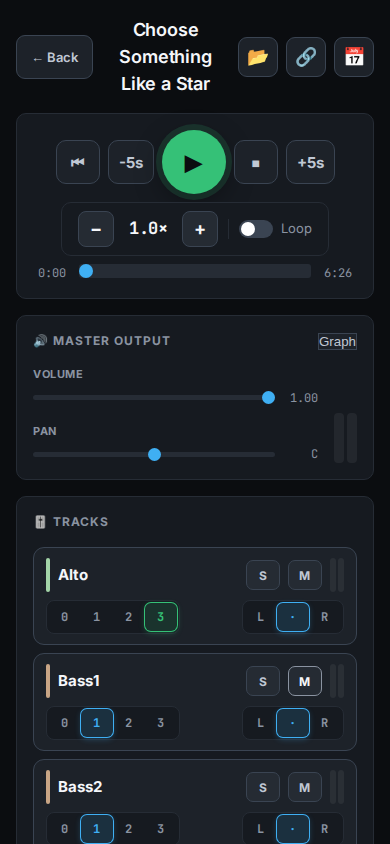
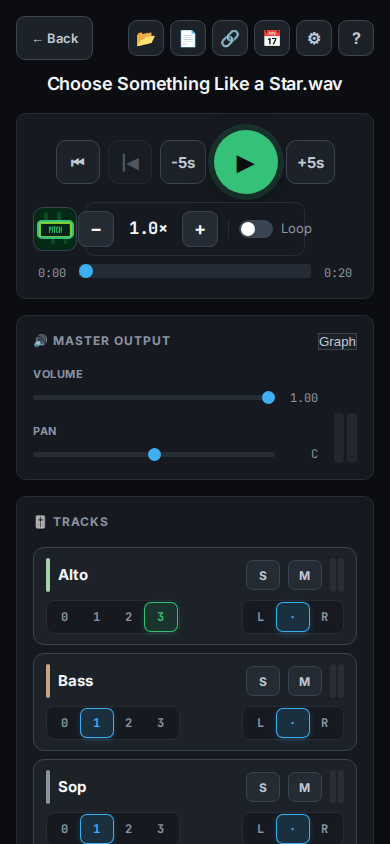
Publish PracticeMix TEST v1.8.8.7

diff --git a/pub/pmix-sit/help.html b/pub/pmix-sit/help.html
@@ -57,6 +57,14 @@
     figure { margin-top: 12px; text-align: center; }
     img { display: block; width: 240px; max-width: 100%; height: auto; margin: 0 auto; border: 1px solid var(--border); border-radius: var(--radius); }
     figcaption { font-size: 12px; color: var(--text-3); margin-top: 6px; }
+    .inline-icon { display: inline-block; vertical-align: middle; width: 28px; height: 28px; margin: 0 2px; border: 0; border-radius: 6px; }
+    .fold { margin-top: 14px; border: 1px solid var(--border); border-radius: var(--radius); background: var(--surface-2); }
+    .fold summary { min-height: 44px; padding: 10px 14px; font-size: 14px; font-weight: 600; color: var(--text-2); cursor: pointer; display: flex; align-items: center; border-radius: var(--radius); }
+    .fold summary:focus-visible { outline: 2px solid var(--blue); outline-offset: 2px; }
+    .fold .edit-body { padding: 0 14px 14px; font-size: 15px; }
+    .fold .edit-body p + ul { margin-top: 6px; }
+    .fold .edit-body ul { margin-left: 20px; }
+    .fold .edit-body a { color: var(--blue); }
     .tips { margin-top: 20px; }
     .tips h2 { font-size: 16px; color: var(--text); margin-bottom: 6px; }
     .tips ul { margin-left: 20px; font-size: 15px; }
@@ -137,30 +145,51 @@
     </div>
   </section>
 
-  <section class="step" data-testid="help-section-score">
-    <h2><span class="num">4</span>Follow the score</h2>
+  <section class="step" data-testid="help-section-pitchpipe">
+    <h2><span class="num">4</span>Pitch Pipe</h2>
     <div class="text">
-      <p>If the song has a score that moves with the music, the <strong>music-note</strong> button appears on the mixer page (on the folder page, the PDF button opens the Drive viewer instead). Tap it and the score opens over the playing mix. Press Play and the score follows the music.</p>
+      <p>Need your starting note? Tap the <strong>Pitch Pipe</strong> button, a green tile marked PITCH <img class="inline-icon" src="icons/opening-note.svg" width="28" height="28" alt="" draggable="false">. It sits at the far left of the row with <strong>Open New</strong> and <strong>Play Selected</strong> on the song page, and at the far left of the speed row on the mixer.</p>
+      <ul>
+        <li>It opens on your part, or on the last part you used, or on Alto the first time. Change part with the <strong>S A T B</strong> buttons.</li>
+        <li>Tap a note to hear it. Hold it to keep it sounding. Use the flat, natural or sharp button first for a note in between.</li>
+        <li>It plays over the mix without stopping it. Close the sheet when you are done.</li>
+      </ul>
+    </div>
+  </section>
+
+  <section class="step" data-testid="help-section-score">
+    <h2><span class="num">5</span>Follow the score</h2>
+    <div class="text" data-testid="help-score-play">
+      <p>If the song has a score that moves with the music, a <strong>score button</strong> appears on the mixer page: a navy disc with a cream rim showing a page of music <img class="inline-icon" src="icons/score-32.webp" srcset="icons/score-32.webp 1x, icons/score-64.webp 2x, icons/score-96.webp 3x" width="32" height="32" alt="" draggable="false">. (On the song page, the PDF button opens the Drive viewer instead.) Tap it and the score opens over the playing mix. Press Play and the score follows the music.</p>
       <ul>
         <li><strong>Follow:</strong> the page moves with the music and the line being sung sits near the top.</li>
         <li><strong>Start from a numbered mark:</strong> tap it and the music starts exactly there.</li>
         <li><strong>Prev / Next</strong> step to the previous or next mark.</li>
-        <li><strong>Look around:</strong> drag the score up or down while it plays to move the line you are singing higher or lower; Follow keeps going. In the Ribbon, dragging up or down moves the view up and down within the line&#39;s box, so you can look at another part of a tall line; it stops at the top and bottom of the box.</li>
-        <li><strong>Ribbon:</strong> instead of whole pages, the score scrolls sideways one line at a time. Switch it on or off in Settings. Pause keeps the Ribbon: drag or scroll it sideways and the time follows; Play carries on from there.</li>
+        <li><strong>Look around:</strong> drag the score while it plays and the view stays where you put it. Tap <strong>Follow</strong> to return to the music. In the Ribbon, dragging up or down looks at another part of a tall line.</li>
+        <li><strong>Ribbon:</strong> instead of whole pages, the score scrolls sideways one line at a time. Switch it on or off in Settings. Pause keeps the Ribbon: drag or scroll it sideways and the time follows; Play carries on from there. A seek or Prev / Next after a drag keeps your view too, until you tap Follow.</li>
         <li><strong>The green bar</strong> shows where you are in the line.</li>
       </ul>
       <p style="margin-top:8px">The <strong>gear</strong> button opens <strong>Settings</strong>:</p>
       <ul>
-        <li><strong>Mode:</strong> Play (listen and follow), Edit - Layout (place and label marks) or Edit - Sync (time marks to the music). Editing is explained on the mark-up page below.</li>
         <li><strong>Open Drive folder:</strong> opens this folder in Google Drive.</li>
         <li><strong>Copy Link:</strong> coming soon.</li>
-        <li><strong>Reaction:</strong> for editing a score, how far before your tap a mark is timed.</li>
         <li><strong>Lead:</strong> how long before a new line starts the page moves to it.</li>
         <li><strong>Crop width:</strong> trims the side margins so the music shows larger.</li>
         <li><strong>Ribbon:</strong> the sideways view, as above.</li>
       </ul>
-      <p style="margin-top:8px">Reaction, Lead, Ribbon and Crop width apply once a score is open; Ribbon needs timed marks. To add or fix the marks, see <a href="score-edit-help.html" target="_blank" rel="noopener" style="color:var(--blue)">how to mark up a score</a>.</p>
     </div>
+    <details class="fold" data-testid="help-score-edit">
+      <summary>Editing a score (limited users)</summary>
+      <div class="edit-body">
+        <p>Most singers never need this. Adding or fixing a score's marks, and saving them for everyone, is only for signed-in editors; anyone else's edits stay on their own device.</p>
+        <ul>
+          <li><strong>Mode</strong> in Settings: <strong>Play</strong> (listen and follow), <strong>Edit - Layout</strong> (place and label marks) or <strong>Edit - Sync</strong> (time marks to the music).</li>
+          <li><strong>Reaction:</strong> how far before your tap a mark is timed.</li>
+          <li><strong>Sync view:</strong> the view stays on the mark being timed (it never scrolls past the middle of the screen). Tap <strong>Follow</strong> to go back to the music; it glides there, paused or playing.</li>
+        </ul>
+        <p>Full steps: <a href="score-edit-help.html" target="_blank" rel="noopener">how to mark up a score</a>.</p>
+      </div>
+    </details>
   </section>
 
   <section class="tips">

diff --git a/pub/pmix-sit/score-edit-help.html b/pub/pmix-sit/score-edit-help.html
@@ -78,7 +78,7 @@
   <section class="step" data-testid="score-edit-help-section-edit">
     <h2>Start editing</h2>
     <ol>
-      <li>Open the score (music-note button), tap the <strong>gear</strong> and choose <strong>Edit - Layout</strong> or <strong>Edit - Sync</strong> under Mode. Play shows no edit controls.</li>
+      <li>Open the score (the navy score button with the cream rim), tap the <strong>gear</strong> and choose <strong>Edit - Layout</strong> or <strong>Edit - Sync</strong> under Mode. Play shows no edit controls.</li>
       <li>In Edit the header has <strong>Done</strong> (back to Play), a <strong>Layout | Sync</strong> switch, the gear and close.</li>
       <li>Under the header, <strong>Undo</strong> steps back. <strong>Save</strong> appears for editors. <strong>More</strong> holds <strong>Revert to saved</strong>, <strong>Clear all</strong>, <strong>Set track offset</strong> and the <strong>Reaction</strong> slider.</li>
       <li>On a wide (desktop) screen the Undo / Save bar sits on the same line as Done and the Layout | Sync switch, and in Sync the timing card is one row.</li>
@@ -137,7 +137,7 @@
       <li><strong>The fix window</strong> is the span of time the target may take, between the marks either side of it. It shows as a band on the scrub bar and on the button&#39;s second line. A tap outside it is refused with a message and changes nothing.</li>
       <li><strong>Pre-roll:</strong> when the playhead is already past the window, playback jumps to 3 s before it; otherwise it carries on.</li>
       <li><strong>Estimate:</strong> for a mark with no time, a dashed line on the scrub bar shows where its time probably is, with a label such as 1:02. It never sets the time.</li>
-      <li><strong>Pinned:</strong> the view stays on the target. Tap the <strong>Pinned</strong> pill or <strong>Follow</strong> to go back to following the music.</li>
+      <li><strong>Pinned:</strong> the view stays on the target and never scrolls it past the middle of the screen. Drag the Ribbon, seek, press Prev / Next, pause or play and the view stays held where it is. Tap <strong>Follow</strong> to return to the music (it glides there, paused or playing), or choose a different target, which also ends the hold.</li>
       <li><strong>PREV / NOW / NEXT</strong> show the marks either side of the playhead. Tap the time in the middle to pick any timed mark from a list.</li>
       <li><strong>In Layout</strong> the same strip shows no times. NOW names the mark you selected (or the one nearest the middle of the page); tap it for the list of every mark in the order it is played, with repeat passes (#2.2) and a row for each jump taken (:| -&gt; #2). Choosing a row scrolls to it and selects it with that pass picked; it never moves the music. PREV and NEXT step through the same list.</li>
       <li>For a selected mark, the arrow at the right of the nudge row opens <strong>More</strong>: <strong>Go to</strong> (3 s before the mark), <strong>Cursor here</strong> and <strong>Clear time</strong>, its note, and the jump fields for a jump.</li>

diff --git a/pub/pmix-sit/index.html b/pub/pmix-sit/index.html
@@ -2354,10 +2354,10 @@ if (typeof module !== 'undefined' && module.exports) module.exports = { createCl
  * first paint, and fetching a file to find out where to fetch files from is the round trip this
  * whole migration exists to remove.
  */
-var STATIC_BUILD_VERSION_ = "1.8.8.6";
+var STATIC_BUILD_VERSION_ = "1.8.8.7";
 var STATIC_ENV_LABEL_ = "TEST";
 var STATIC_WEBAPP_URL_ = "https://script.google.com/macros/s/AKfycbx6AZF5KKUi9HXM9oS2mMD0jtV25k5Fs21JqSSBM_v4U9Z8caHmMazdwhXyMD-4Agak/exec";
-var STATIC_BUILD_DATE_ = "2026-11-26T17:24:50.828Z";
+var STATIC_BUILD_DATE_ = "2026-11-26T17:33:33.390Z";
 // Optional sign-in (bd atc-dfr): the NUUC-Dispatch /exec URL for this env, and the assertion audience
 // (practicemix-test on TEST, practicemix on PROD). Both null = unbuilt, sign-in disabled.
 var STATIC_DISPATCH_URL_ = "https://script.google.com/macros/s/AKfycbwmoOPRDThQWDzMPU5H-6aVzvnprYbIL8yjbhLX3wBbi89ZY7cRLc2_yoYUK1H8LcX3/exec";
